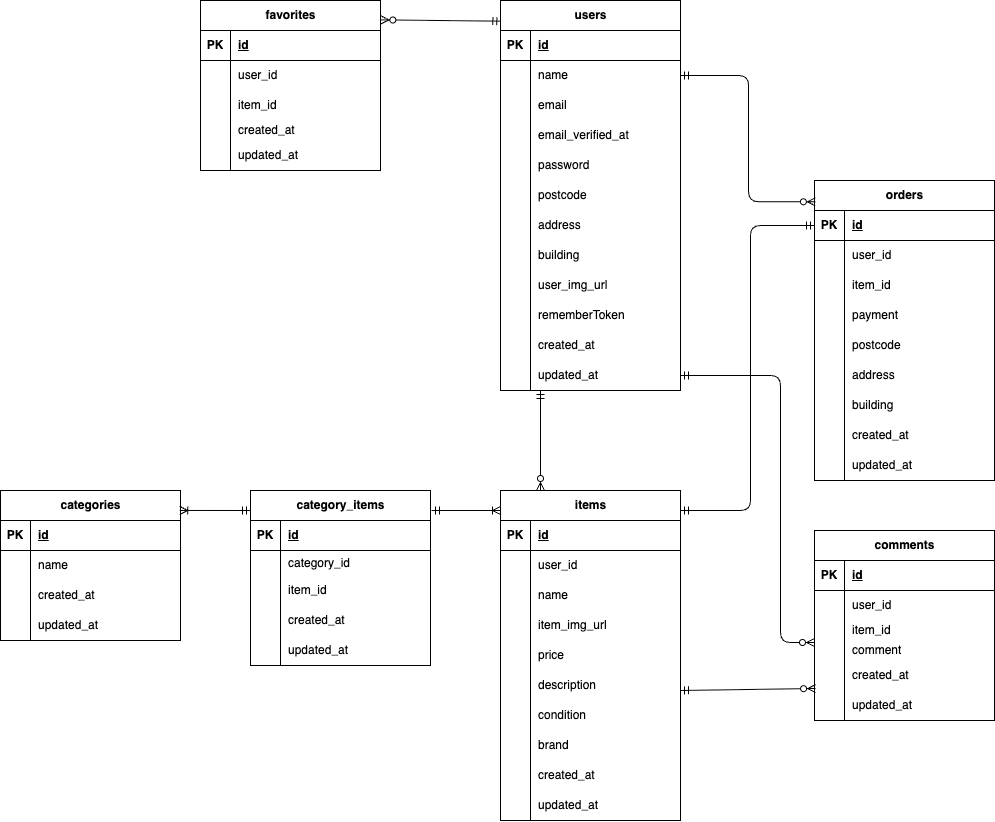
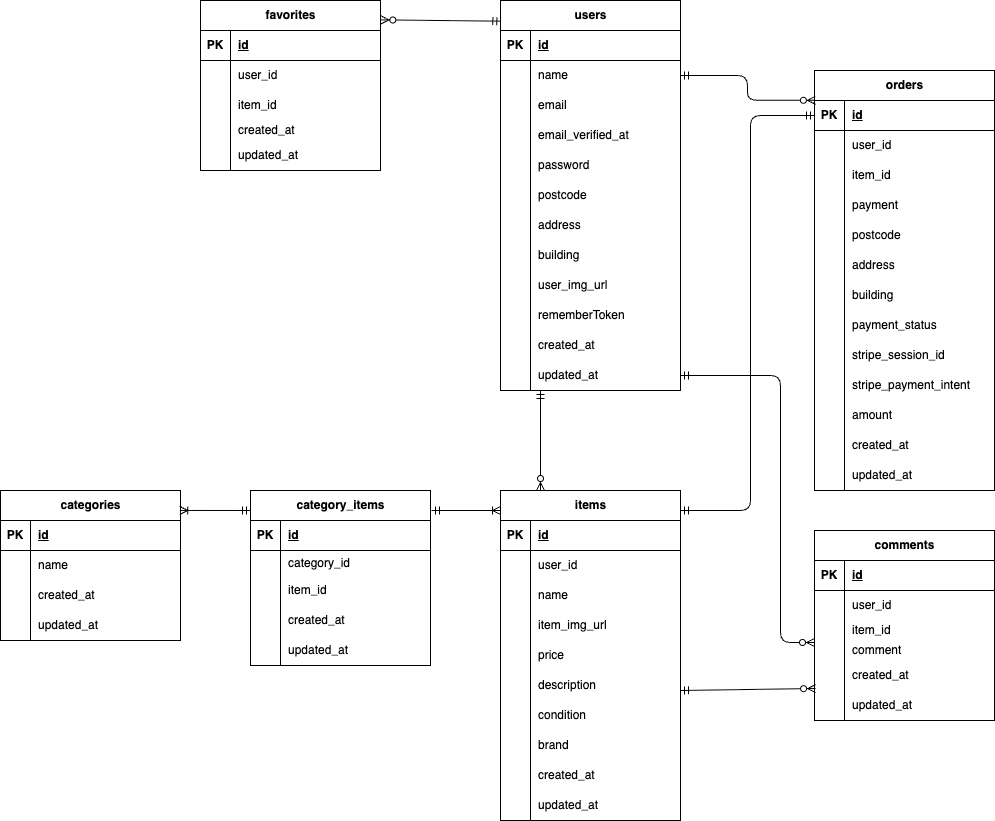
ER図　stripe

diff --git a/src/app/Http/Controllers/StripeWebhookController.php b/src/app/Http/Controllers/StripeWebhookController.php
@@ -22,9 +22,7 @@ class StripeWebhookController extends Controller
             return response('OK', 200);
         }
 
-        // -----------------------------
-        // 1) Checkout 完了イベント
-        // -----------------------------
+        //1) Checkout 完了イベント
         if ($event->type === 'checkout.session.completed') {
             $session = $event->data->object;  // CheckoutSession オブジェクト
             $metadata = $session->metadata ? $session->metadata->toArray() : [];
@@ -41,9 +39,7 @@ class StripeWebhookController extends Controller
             );
         }
 
-        // -----------------------------
         // 2) 支払い成功イベント（特にカード）
-        // -----------------------------
         if ($event->type === 'payment_intent.succeeded') {
             $paymentIntent = $event->data->object;  // PaymentIntent オブジェクト
             $metadata = $paymentIntent->metadata ? $paymentIntent->metadata->toArray() : [];
@@ -60,10 +56,7 @@ class StripeWebhookController extends Controller
         return response('OK', 200);
     }
 
-    /**
-     * 注文レコードを作成する
-     * （同じ PaymentIntent / Session が存在する場合はスキップして二重作成防止）
-     */
+     // 注文レコードを作成する
     private function createOrder(array $metadata, string $status, ?string $sessionId, ?string $paymentIntentId)
     {
         // 重複チェック

diff --git a/src/database/migrations/2025_09_01_104727_create_orders_table.php b/src/database/migrations/2025_09_01_104727_create_orders_table.php
@@ -27,9 +27,9 @@ class CreateOrdersTable extends Migration
             //支払いの進行状況をアプリ側で確認
             $table->string('payment_status')->default('pending');
             //どのセッションでこの注文を処理したか
-            $table->string('stripe_session_id')->nullable()->index();
-            $table->string('stripe_payment_intent')->nullable()->index();
-            $table->integer('amount')->default(0); // 円（金額はCheckout作成時に設定）
+            $table->string('stripe_session_id')->nullable()->unique();
+            $table->string('stripe_payment_intent')->nullable()->unique();
+            $table->unsignedInteger('amount')->default(0); // 円（金額はCheckout作成時に設定）
 
             $table->timestamps();
         });

diff --git a/README.md b/README.md
@@ -97,6 +97,8 @@
 1. テスト専用の環境設定ファイル .env.testing を用意
 2. .env.testingに以下を記述
 
+   テスト用アプリケーションキーの作成 
+   `php artisan key:generate --env=testing`
    ```
    APP_ENV=testing
    APP_KEY=base64:xxxxxxxxxxxxxxxxxxxxxxxxxxxxxxxxxxxxxxx
